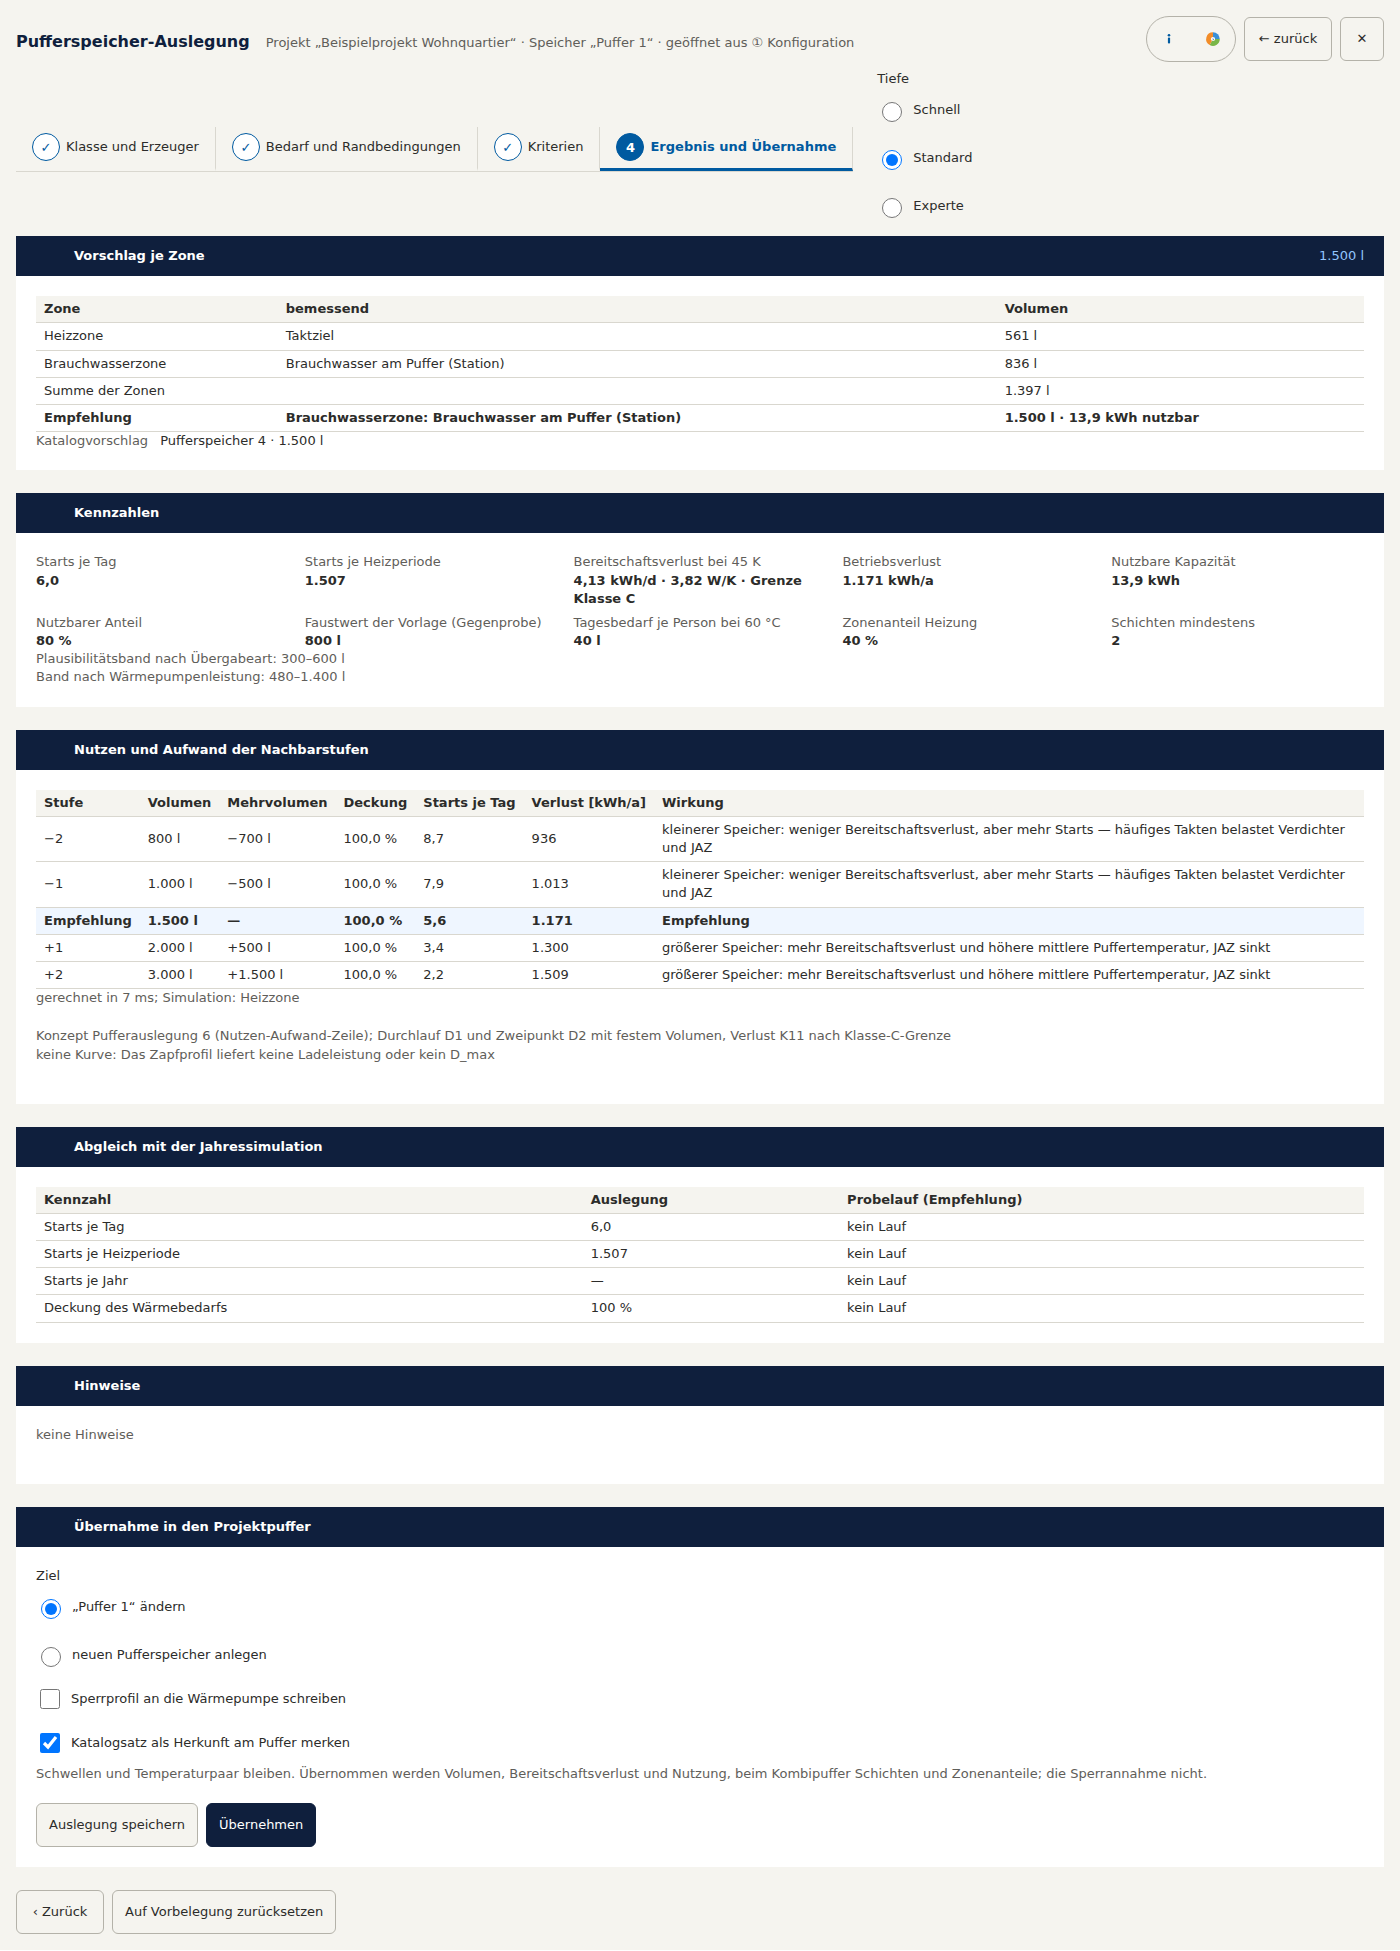
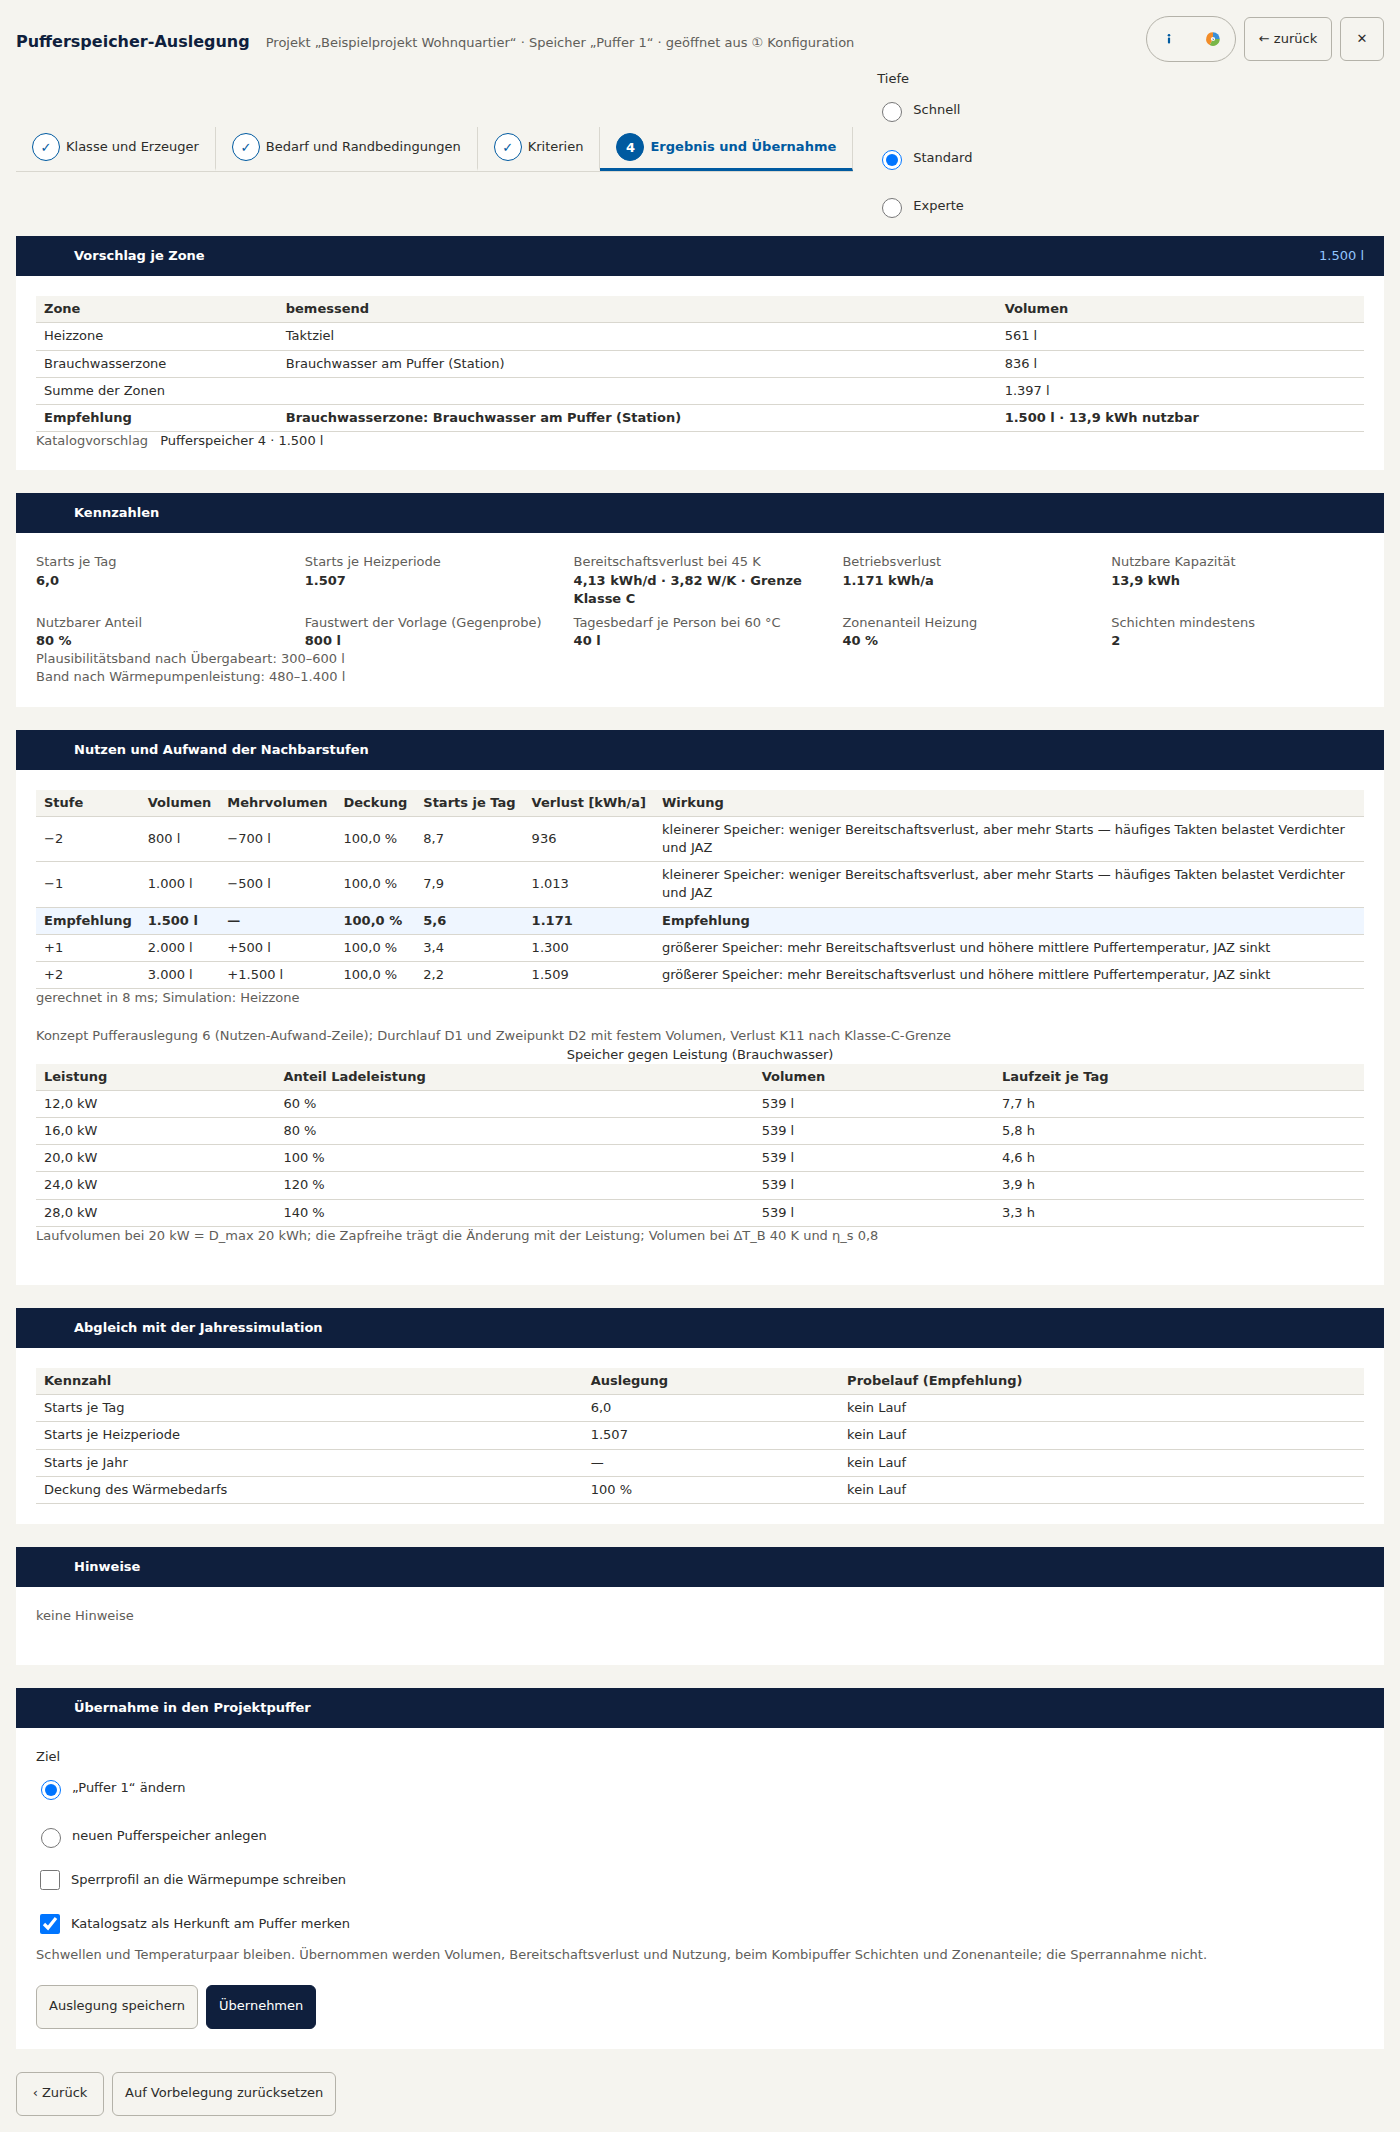
Wiki-Bild Pufferauslegung: Zapfprofil mit Ladeleistung
Das Zapfprofil der Beispieldaten traegt eine Ladeleistung von 20 kW;
der Kern rechnet damit die Kurve Speicher gegen Leistung, die Zeile
"keine Kurve" entfaellt. Bild neu gezogen.

Claude-Session: https://claude.ai/code/session_01LxWpn8bgrFYtFBXppoeoCL

diff --git a/Proben/Rasterprobe/Wirt/Seiten/Wikibild.Pufferauslegung.cs b/Proben/Rasterprobe/Wirt/Seiten/Wikibild.Pufferauslegung.cs
@@ -139,7 +139,7 @@ public partial class Wikibild
             Sperrfenster = PufferSperrprofil.Fenster(PufferSperrprofilWert.Keine),
             Zapfprofil = new PufferZapfprofil
             {
-                Topologie = PufferBwTopologie.Frischwasser, DmaxKwh = 20, Personen = 40, TagesbedarfL = 1600
+                Topologie = PufferBwTopologie.Frischwasser, DmaxKwh = 20, LadeleistungKw = 20, Personen = 40, TagesbedarfL = 1600
             },
             Katalog = volumen.Select((v, i) => new PufferKatalogsatz(i + 1, $"Pufferspeicher {i + 1}", v, null, true)).ToList(),
             Parameter = PufferAuslegungParameter.Vorgabe()
